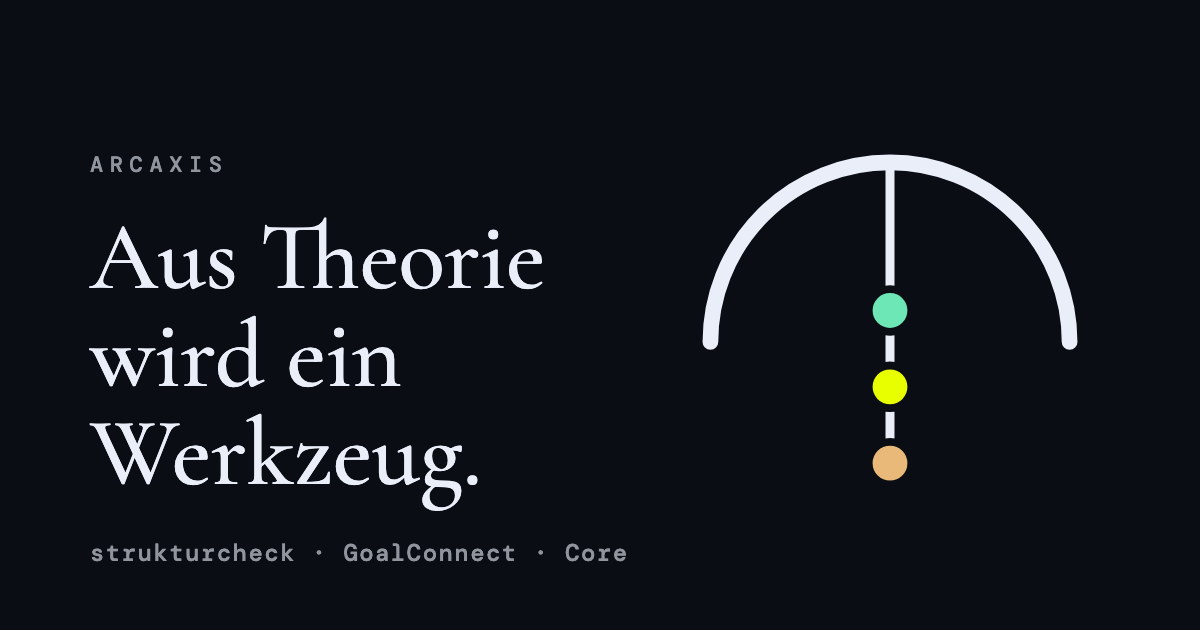
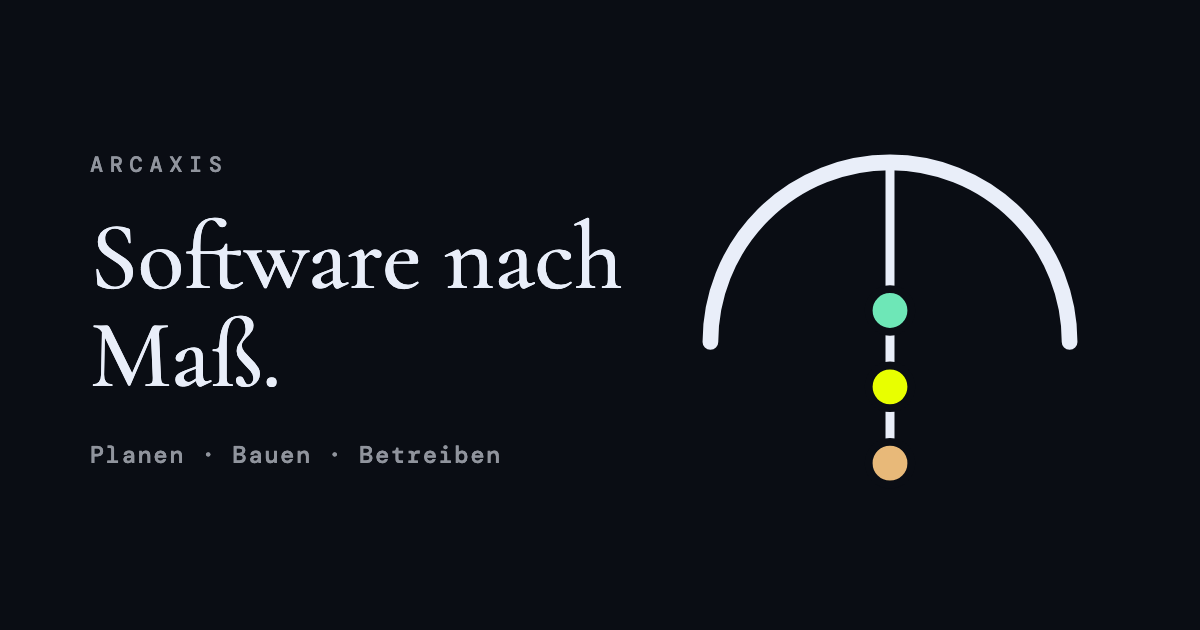
ArcAxis-Seite neu: Softwarelösungen, Projekte als Beispiele

diff --git a/index.html b/index.html
@@ -3,11 +3,11 @@
 <head>
 <meta charset="utf-8">
 <meta name="viewport" content="width=device-width, initial-scale=1">
-<title>ArcAxis – Analysewerkzeuge aus Theorie</title>
-<meta name="description" content="ArcAxis entwickelt theoriebasierte Analysewerkzeuge: strukturcheck, GoalConnect und Core. Sie wollen auch eins? Sprechen Sie uns an.">
+<title>ArcAxis – Softwarelösungen nach Maß</title>
+<meta name="description" content="ArcAxis plant, baut und betreibt Softwarelösungen – von der ersten Idee bis zum ersten zahlenden Nutzer. Beispiele: strukturcheck, GoalConnect, Core.">
 <link rel="canonical" href="https://arcaxis.de/">
-<meta property="og:title" content="ArcAxis – Analysewerkzeuge aus Theorie">
-<meta property="og:description" content="Aus Theorie wird ein Werkzeug: strukturcheck, GoalConnect, Core – und vielleicht bald Ihres.">
+<meta property="og:title" content="ArcAxis – Softwarelösungen nach Maß">
+<meta property="og:description" content="Wir planen, bauen und betreiben Software – von der ersten Idee bis zum ersten zahlenden Nutzer.">
 <meta property="og:type" content="website">
 <meta property="og:url" content="https://arcaxis.de/">
 <meta property="og:image" content="https://arcaxis.de/og-image.png">
@@ -22,9 +22,9 @@
 <header class="hdr"><div class="wrap hdr__in">
   <a class="brand" href="/" aria-label="ArcAxis"><svg xmlns="http://www.w3.org/2000/svg" viewBox="60 70 392 392" role="img" aria-label="ArcAxis">   <path d="M96 290 A160 160 0 0 1 416 290" fill="none" stroke="#e9eef9" stroke-width="14" stroke-linecap="round"/>   <line x1="256" y1="130" x2="256" y2="398" stroke="#e9eef9" stroke-width="8" stroke-linecap="round"/>   <circle cx="256" cy="262" r="19" fill="#6ee7b7" stroke="#0a0d14" stroke-width="7"/>   <circle cx="256" cy="330" r="19" fill="#e8ff00" stroke="#0a0d14" stroke-width="7"/>   <circle cx="256" cy="398" r="19" fill="#e8b979" stroke="#0a0d14" stroke-width="7"/> </svg> <span>ArcAxis</span></a>
   <nav class="nav" aria-label="Navigation">
-    <a href="#methode" data-i18n="nav.m">Methode</a>
-    <a href="#werkzeuge" data-i18n="nav.w">Werkzeuge</a>
-    <a href="#anfrage" data-i18n="nav.a">Eigenes Werkzeug</a>
+    <a href="#leistungen" data-i18n="nav.l">Leistungen</a>
+    <a href="#beispiele" data-i18n="nav.b">Beispiele</a>
+    <a href="#anfrage" data-i18n="nav.a">Projekt anfragen</a>
   </nav>
   <div class="lang" role="group" aria-label="Sprache / Language"><button type="button" data-lang="de" aria-pressed="true">DE</button><button type="button" data-lang="en" aria-pressed="false">EN</button></div>
 </div></header>
@@ -32,78 +32,81 @@
 <main id="main">
   <section class="hero"><div class="wrap hero__grid">
     <div>
-      <p class="eyebrow" data-i18n="hero.e">ArcAxis · Software aus Theorie</p>
-      <h1 data-i18n="hero.h">Aus Theorie wird ein Werkzeug.</h1>
-      <p class="lead" data-i18n="hero.l">ArcAxis entwickelt Analysewerkzeuge, die auf einem klaren Gedankengebäude beruhen: strukturierte Fragen hinein, eine nachvollziehbare Diagnose heraus.</p>
-      <div class="cta"><a class="btn btn--primary" href="#werkzeuge" data-i18n="hero.c1">Die Werkzeuge</a><a class="btn" href="#anfrage" data-i18n="hero.c2">Eigenes Werkzeug anfragen</a></div>
+      <p class="eyebrow" data-i18n="hero.e">ArcAxis · Softwarelösungen</p>
+      <h1 data-i18n="hero.h">Software nach Maß.</h1>
+      <p class="lead" data-i18n="hero.l">ArcAxis plant, baut und betreibt Softwarelösungen – von der ersten Idee bis zum ersten zahlenden Nutzer.</p>
+      <div class="cta"><a class="btn btn--primary" href="#beispiele" data-i18n="hero.c1">Beispiele ansehen</a><a class="btn" href="#anfrage" data-i18n="hero.c2">Projekt anfragen</a></div>
     </div>
-    <div class="mark-lg" aria-hidden="true"><svg xmlns="http://www.w3.org/2000/svg" viewBox="60 70 392 392" role="img" aria-label="ArcAxis">   <path d="M96 290 A160 160 0 0 1 416 290" fill="none" stroke="#e9eef9" stroke-width="14" stroke-linecap="round"/>   <line x1="256" y1="130" x2="256" y2="398" stroke="#e9eef9" stroke-width="8" stroke-linecap="round"/>   <circle cx="256" cy="262" r="19" fill="#6ee7b7" stroke="#0a0d14" stroke-width="7"/>   <circle cx="256" cy="330" r="19" fill="#e8ff00" stroke="#0a0d14" stroke-width="7"/>   <circle cx="256" cy="398" r="19" fill="#e8b979" stroke="#0a0d14" stroke-width="7"/> </svg> </div>
+    <div class="mark-lg" aria-hidden="true"><svg xmlns="http://www.w3.org/2000/svg" viewBox="60 70 392 392" role="img" aria-label="ArcAxis">   <path d="M96 290 A160 160 0 0 1 416 290" fill="none" stroke="#e9eef9" stroke-width="14" stroke-linecap="round"/>   <line x1="256" y1="130" x2="256" y2="398" stroke="#e9eef9" stroke-width="8" stroke-linecap="round"/>   <circle cx="256" cy="262" r="19" fill="#6ee7b7" stroke="#0a0d14" stroke-width="7"/>   <circle cx="256" cy="330" r="19" fill="#e8ff00" stroke="#0a0d14" stroke-width="7"/>   <circle cx="256" cy="398" r="19" fill="#e8b979" stroke="#0a0d14" stroke-width="7"/> </svg></div>
   </div></section>
 
-  <section class="section" id="methode"><div class="wrap">
+  <section class="section" id="leistungen"><div class="wrap">
     <div class="section__head narrow">
-      <p class="eyebrow" data-i18n="m.e">Was alle verbindet</p>
-      <h2 data-i18n="m.h">Eine Theorie. Viele Anwendungen.</h2>
-      <p class="lead" data-i18n="m.l">strukturcheck, GoalConnect und Core sehen verschieden aus und haben dasselbe Fundament: die Moral des Gleichgewichts. Sie beschreibt, wie ein System kippt, wenn eine von acht Kräften auf Kosten einer anderen überwiegt.</p>
+      <p class="eyebrow" data-i18n="l.e">Was wir machen</p>
+      <h2 data-i18n="l.h">Alles, was zu einer fertigen Lösung gehört.</h2>
     </div>
     <div class="principles">
-      <div class="pr"><span class="pr__n">01</span><h3 data-i18n="p1.h">Erst das Modell.</h3><p data-i18n="p1.p">Jedes Werkzeug folgt demselben, öffentlich dokumentierten Modell. Begriffe, Skalen und Fragen stehen fest, bevor die erste Zeile Code entsteht.</p></div>
-      <div class="pr"><span class="pr__n">02</span><h3 data-i18n="p2.h">Dann die Frage.</h3><p data-i18n="p2.p">Wenige, gezielte Fragen statt langer Formulare. Aus den Antworten entsteht eine Einschätzung: Was überwiegt, was wird verdrängt, was folgt daraus.</p></div>
-      <div class="pr"><span class="pr__n">03</span><h3 data-i18n="p3.h">Sorgfältig gebaut.</h3><p data-i18n="p3.p">Klare Texte, mehrsprachig, ohne Cookies und Tracking. Ergebnisse, die sich weitergeben lassen: als Report, als PDF, mit konkreten nächsten Schritten.</p></div>
+      <div class="pr"><span class="pr__n">01</span><h3 data-i18n="l1.h">Web-Anwendungen</h3><p data-i18n="l1.p">Schnell, mehrsprachig und auf jedem Gerät nutzbar.</p></div>
+      <div class="pr"><span class="pr__n">02</span><h3 data-i18n="l2.h">KI-Funktionen</h3><p data-i18n="l2.p">Auswertung, Analyse und Texte – mit klaren Leitplanken und nachvollziehbaren Ergebnissen.</p></div>
+      <div class="pr"><span class="pr__n">03</span><h3 data-i18n="l3.h">Reports und PDF</h3><p data-i18n="l3.p">Ergebnisse, die sich weitergeben lassen, im Erscheinungsbild Ihrer Marke.</p></div>
+      <div class="pr"><span class="pr__n">04</span><h3 data-i18n="l4.h">Zugang und Bezahlung</h3><p data-i18n="l4.p">Tokens, Abos oder Einmalkäufe – samt Rechnung und Bestellabwicklung.</p></div>
+      <div class="pr"><span class="pr__n">05</span><h3 data-i18n="l5.h">Automatisierung</h3><p data-i18n="l5.p">Aus manuellen Abläufen werden Prozesse, die von allein laufen.</p></div>
+      <div class="pr"><span class="pr__n">06</span><h3 data-i18n="l6.h">Betrieb und Pflege</h3><p data-i18n="l6.p">Hosting, Überwachung und Weiterentwicklung, damit es läuft, wenn Nutzer kommen.</p></div>
     </div>
   </div></section>
 
-  <section class="section" id="werkzeuge"><div class="wrap">
+  <section class="section" id="beispiele"><div class="wrap">
     <div class="section__head narrow">
-      <p class="eyebrow" data-i18n="w.e">Drei Werkzeuge, ein Fundament</p>
-      <h2 data-i18n="w.h">Was bisher entstanden ist.</h2>
+      <p class="eyebrow" data-i18n="b.e">Beispiele</p>
+      <h2 data-i18n="b.h">Drei Produkte, komplett von uns gebaut.</h2>
+      <p class="lead" data-i18n="b.l">Jedes davon haben wir von der Idee bis zum Betrieb umgesetzt: Oberfläche, Auswertung, Bezahlung, Betrieb.</p>
     </div>
     <div class="cards">
-      <a class="card c-mint" href="https://strukturcheck.de" target="_blank" rel="noopener"><span class="card__dot"></span><span class="card__tag" data-i18n="w1.t">Web · KI-gestützt</span><h3>strukturcheck</h3><p data-i18n="w1.p">Für Menschen, Teams und Organisationen. Eine Situation beschreiben, in Sekunden sehen, welche Kraft überwiegt – und was als Nächstes dran ist.</p><span class="card__go" data-i18n="w.go">Ansehen →</span></a>
-      <a class="card c-lime" href="https://goalconnect-solutions.com" target="_blank" rel="noopener"><span class="card__dot"></span><span class="card__tag" data-i18n="w2.t">Web · Vereinsdiagnose</span><h3>GoalConnect</h3><p data-i18n="w2.p">Für Profifußballvereine. Fünf Fragen zur Entscheidungsstruktur – mit Befund, Handlungsebenen und einem PDF für den Vorstand.</p><span class="card__go" data-i18n="w.go">Ansehen →</span></a>
-      <a class="card c-amber" href="https://trycore.app" target="_blank" rel="noopener"><span class="card__dot"></span><span class="card__tag" data-i18n="w3.t">Journal · KI-gestützt</span><h3>Core</h3><p data-i18n="w3.p">Für den Alltag. Ein ruhiges Emotions-Journal, das mit KI-gestützter Reflexion hilft, das eigene Gleichgewicht zu erkennen.</p><span class="card__go" data-i18n="w.go">Ansehen →</span></a>
+      <a class="card c-mint" href="https://strukturcheck.de" target="_blank" rel="noopener"><span class="card__dot"></span><span class="card__tag" data-i18n="b1.t">Web · KI · Bezahlung</span><h3>strukturcheck</h3><p data-i18n="b1.p">Strukturierte KI-Einschätzung für Situationen, Teams und Organisationen – mit Report, Team-Runden und Token-Zugang in drei Sprachen.</p><span class="card__go" data-i18n="b.go">Ansehen →</span></a>
+      <a class="card c-lime" href="https://goalconnect-solutions.com" target="_blank" rel="noopener"><span class="card__dot"></span><span class="card__tag" data-i18n="b2.t">Web · Reports · Bestellung</span><h3>GoalConnect</h3><p data-i18n="b2.p">Diagnose-Werkzeug für Profifußballvereine – mit PDF für den Vorstand, automatisch erstelltem Kurzbericht und Auftragsverwaltung.</p><span class="card__go" data-i18n="b.go">Ansehen →</span></a>
+      <a class="card c-amber" href="https://trycore.app" target="_blank" rel="noopener"><span class="card__dot"></span><span class="card__tag" data-i18n="b3.t">App · KI · Sicherheit</span><h3>Core</h3><p data-i18n="b3.p">Journal-App mit KI-gestützter Reflexion – gebaut mit Fokus auf Datenschutz und Sicherheit.</p><span class="card__go" data-i18n="b.go">Ansehen →</span></a>
     </div>
   </div></section>
 
   <section class="section" id="anfrage"><div class="wrap">
     <div class="section__head narrow">
-      <p class="eyebrow" data-i18n="a.e">Für Ihr Fachgebiet</p>
+      <p class="eyebrow" data-i18n="a.e">Ihr Projekt</p>
       <h2 data-i18n="a.h">Sie wollen auch eins?</h2>
-      <p class="lead" data-i18n="a.l">Sie haben ein Modell, ein Verfahren oder eine Methode – bisher in Köpfen, Folien oder Tabellen? ArcAxis macht daraus ein Werkzeug, das andere selbst bedienen können.</p>
+      <p class="lead" data-i18n="a.l">Sie haben eine Idee, einen Ablauf, der besser laufen könnte, oder ein Produkt, das es noch nicht gibt? Sprechen Sie uns an.</p>
     </div>
     <div class="offer">
       <div>
-        <p class="mono" data-i18n="a.d">Was wir liefern</p>
+        <p class="mono" data-i18n="a.d">Typische Projekte</p>
         <ul class="list">
-          <li><span class="no">01</span><span><b data-i18n="d1.b">Das Modell schärfen.</b> <span data-i18n="d1.t">Begriffe, Skalen und Fragen, die tragen.</span></span></li>
-          <li><span class="no">02</span><span><b data-i18n="d2.b">Die Auswertung bauen.</b> <span data-i18n="d2.t">Regeln, KI oder beides – mit klaren Leitplanken und nachvollziehbaren Ergebnissen.</span></span></li>
-          <li><span class="no">03</span><span><b data-i18n="d3.b">Die Oberfläche.</b> <span data-i18n="d3.t">Web-Anwendung, mehrsprachig, schnell und zugänglich.</span></span></li>
-          <li><span class="no">04</span><span><b data-i18n="d4.b">Das Ergebnis.</b> <span data-i18n="d4.t">Report und PDF im Erscheinungsbild Ihrer Marke.</span></span></li>
-          <li><span class="no">05</span><span><b data-i18n="d5.b">Den Betrieb.</b> <span data-i18n="d5.t">Hosting, Bezahlung und Support – bis zum ersten zahlenden Nutzer und darüber hinaus.</span></span></li>
+          <li><span class="no">01</span><span><b data-i18n="t1.b">Fachwerkzeuge und Diagnose-Tools</b> <span data-i18n="t1.t">Fragen rein, Ergebnis und Report raus.</span></span></li>
+          <li><span class="no">02</span><span><b data-i18n="t2.b">Kunden- und Mitgliederbereiche</b> <span data-i18n="t2.t">Mit Zugang, Bezahlung und Verlauf.</span></span></li>
+          <li><span class="no">03</span><span><b data-i18n="t3.b">Auswertungen mit KI</b> <span data-i18n="t3.t">Texte, Analysen und Berichte, die nachvollziehbar bleiben.</span></span></li>
+          <li><span class="no">04</span><span><b data-i18n="t4.b">Automatisierung</b> <span data-i18n="t4.t">Anfragen, Bestellungen und Berichte ohne Handarbeit.</span></span></li>
+          <li><span class="no">05</span><span><b data-i18n="t5.b">Prototypen</b> <span data-i18n="t5.t">Eine neue Produktidee schnell als laufende Version sehen.</span></span></li>
         </ul>
       </div>
       <div>
         <p class="mono" data-i18n="s.d">So läuft es</p>
         <ol class="steps">
-          <li><div><b data-i18n="s1.b">Gespräch</b><span data-i18n="s1.t">Wir verstehen Ihr Modell und Ihr Ziel.</span></div></li>
-          <li><div><b data-i18n="s2.b">Konzept</b><span data-i18n="s2.t">Fragen, Auswertung und Ergebnis auf einer Seite.</span></div></li>
-          <li><div><b data-i18n="s3.b">Prototyp</b><span data-i18n="s3.t">Ein lauffähiges Werkzeug, das Sie selbst ausprobieren.</span></div></li>
+          <li><div><b data-i18n="s1.b">Gespräch</b><span data-i18n="s1.t">Wir verstehen Ihre Idee und Ihr Ziel.</span></div></li>
+          <li><div><b data-i18n="s2.b">Konzept</b><span data-i18n="s2.t">Umfang, Ablauf und Ergebnis auf einer Seite.</span></div></li>
+          <li><div><b data-i18n="s3.b">Prototyp</b><span data-i18n="s3.t">Eine laufende Version, die Sie selbst ausprobieren.</span></div></li>
           <li><div><b data-i18n="s4.b">Betrieb</b><span data-i18n="s4.t">Veröffentlichung, Pflege und Weiterentwicklung.</span></div></li>
         </ol>
         <div class="ask">
           <h3 data-i18n="ask.h">Sprechen Sie uns an.</h3>
           <p data-i18n="ask.p">Schildern Sie in wenigen Sätzen, worum es geht. Ein Angebot erhalten Sie nach einem ersten Gespräch.</p>
-          <p><a class="btn btn--primary" href="mailto:info@arcaxis.de?subject=Anfrage%20Analysewerkzeug">info@arcaxis.de</a></p>
+          <p><a class="btn btn--primary" href="mailto:info@arcaxis.de?subject=Projektanfrage">info@arcaxis.de</a></p>
         </div>
       </div>
     </div>
-    <p class="fit" data-i18n="fit">Passt zu Forschenden und Autor:innen mit eigenem Modell, zu Beratungen, Verbänden und Vereinen, zu Coaches und Fachleuten mit einem Verfahren, das bisher von Hand läuft.</p>
+    <p class="fit" data-i18n="fit">Für Unternehmen, Vereine und Verbände, Selbstständige sowie Gründerinnen und Gründer.</p>
   </div></section>
 
   <section class="section"><div class="wrap">
     <div class="about">
       <p class="eyebrow" data-i18n="ab.e">Wer dahintersteht</p>
-      <p data-i18n="ab.p">Hinter ArcAxis steht Selim M. Ayrilmaz, Autor der Moral des Gleichgewichts und Entwickler der Werkzeuge. ArcAxis ist ein kleines Studio in München: wenige Projekte, dafür mit Sorgfalt.</p>
+      <p data-i18n="ab.p">ArcAxis ist ein Entwicklungsstudio in München. Sie sprechen direkt mit der Person, die Ihre Lösung baut: Selim M. Ayrilmaz.</p>
     </div>
   </div></section>
 </main>

diff --git a/assets/arcaxis.js b/assets/arcaxis.js
@@ -2,34 +2,37 @@
 (() => {
   "use strict";
   const EN = {
-    "skip": "Skip to content", "nav.m": "Method", "nav.w": "Tools", "nav.a": "Your own tool",
-    "hero.e": "ArcAxis · Software from theory", "hero.h": "From theory to a working tool.",
-    "hero.l": "ArcAxis builds analysis tools grounded in a clear body of thought: structured questions in, a traceable diagnosis out.",
-    "hero.c1": "The tools", "hero.c2": "Request your own tool",
-    "m.e": "What connects them", "m.h": "One theory. Many applications.",
-    "m.l": "strukturcheck, GoalConnect and Core look different and share one foundation: the Moral des Gleichgewichts (Morality of Balance). It describes how a system tips when one of eight forces prevails at the expense of another.",
-    "p1.h": "Model first.", "p1.p": "Every tool follows the same, publicly documented model. Terms, scales and questions are fixed before the first line of code is written.",
-    "p2.h": "Then the question.", "p2.p": "A few targeted questions instead of long forms. The answers become an assessment: what prevails, what is displaced, what follows.",
-    "p3.h": "Carefully built.", "p3.p": "Clear texts, multilingual, no cookies and no tracking. Results you can pass on: as a report, as a PDF, with concrete next steps.",
-    "w.e": "Three tools, one foundation", "w.h": "What exists so far.", "w.go": "Take a look →",
-    "w1.t": "Web · AI-assisted", "w1.p": "For people, teams and organisations. Describe a situation, see in seconds which force prevails – and what to do next.",
-    "w2.t": "Web · club diagnosis", "w2.p": "For professional football clubs. Five questions about decision structure – with findings, levels of action and a PDF for the board.",
-    "w3.t": "Journal · AI-assisted", "w3.p": "For everyday life. A calm emotion journal that uses AI-assisted reflection to help you recognise your own balance.",
-    "a.e": "For your field", "a.h": "Want one too?",
-    "a.l": "You have a model, a procedure or a method – so far living in heads, slides or spreadsheets? ArcAxis turns it into a tool that others can use on their own.",
-    "a.d": "What we deliver", "s.d": "How it works",
-    "d1.b": "Sharpening the model.", "d1.t": "Terms, scales and questions that hold up.",
-    "d2.b": "Building the evaluation.", "d2.t": "Rules, AI or both – with clear guardrails and traceable results.",
-    "d3.b": "The interface.", "d3.t": "Web application, multilingual, fast and accessible.",
-    "d4.b": "The result.", "d4.t": "Report and PDF in your brand’s look.",
-    "d5.b": "Operations.", "d5.t": "Hosting, payment and support – up to the first paying user and beyond.",
-    "s1.b": "Conversation", "s1.t": "We understand your model and your goal.",
-    "s2.b": "Concept", "s2.t": "Questions, evaluation and result on one page.",
-    "s3.b": "Prototype", "s3.t": "A working tool you can try yourself.",
+    "skip": "Skip to content", "nav.l": "Services", "nav.b": "Examples", "nav.a": "Request a project",
+    "hero.e": "ArcAxis · Software solutions", "hero.h": "Software, made to measure.",
+    "hero.l": "ArcAxis plans, builds and runs software solutions – from the first idea to the first paying user.",
+    "hero.c1": "See examples", "hero.c2": "Request a project",
+    "l.e": "What we do", "l.h": "Everything a finished solution needs.",
+    "l1.h": "Web applications", "l1.p": "Fast, multilingual and usable on any device.",
+    "l2.h": "AI features", "l2.p": "Evaluation, analysis and text – with clear guardrails and traceable results.",
+    "l3.h": "Reports and PDF", "l3.p": "Results you can pass on, in your brand’s look.",
+    "l4.h": "Access and payment", "l4.p": "Tokens, subscriptions or one-off purchases – including invoicing and order handling.",
+    "l5.h": "Automation", "l5.p": "Manual routines become processes that run by themselves.",
+    "l6.h": "Operations and care", "l6.p": "Hosting, monitoring and further development, so it works when users arrive.",
+    "b.e": "Examples", "b.h": "Three products, built entirely by us.",
+    "b.l": "We took each from idea to operation: interface, evaluation, payment, running it.", "b.go": "Take a look →",
+    "b1.t": "Web · AI · payment", "b1.p": "A structured AI assessment for situations, teams and organisations – with report, team rounds and token access in three languages.",
+    "b2.t": "Web · reports · orders", "b2.p": "A diagnosis tool for professional football clubs – with a PDF for the board, an automatically generated short report and order management.",
+    "b3.t": "App · AI · security", "b3.p": "A journal app with AI-assisted reflection – built with a focus on privacy and security.",
+    "a.e": "Your project", "a.h": "Want one too?",
+    "a.l": "Do you have an idea, a process that could run better, or a product that does not exist yet? Get in touch.",
+    "a.d": "Typical projects", "s.d": "How it works",
+    "t1.b": "Specialist tools and diagnosis tools", "t1.t": "Questions in, result and report out.",
+    "t2.b": "Customer and member areas", "t2.t": "With access, payment and history.",
+    "t3.b": "Evaluations with AI", "t3.t": "Texts, analyses and reports that stay traceable.",
+    "t4.b": "Automation", "t4.t": "Requests, orders and reports without manual work.",
+    "t5.b": "Prototypes", "t5.t": "See a new product idea as a running version, quickly.",
+    "s1.b": "Conversation", "s1.t": "We understand your idea and your goal.",
+    "s2.b": "Concept", "s2.t": "Scope, flow and result on one page.",
+    "s3.b": "Prototype", "s3.t": "A running version you can try yourself.",
     "s4.b": "Operation", "s4.t": "Launch, maintenance and further development.",
     "ask.h": "Get in touch.", "ask.p": "Describe in a few sentences what it is about. You will receive a proposal after a first conversation.",
-    "fit": "A good fit for researchers and authors with their own model, consultancies, associations and clubs, coaches and specialists with a procedure that still runs by hand.",
-    "ab.e": "Who is behind it", "ab.p": "ArcAxis is run by Selim M. Ayrilmaz, author of the Moral des Gleichgewichts and developer of the tools. ArcAxis is a small studio in Munich: few projects, built with care.",
+    "fit": "For companies, clubs and associations, self-employed people and founders.",
+    "ab.e": "Who is behind it", "ab.p": "ArcAxis is a development studio in Munich. You talk directly to the person who builds your solution: Selim M. Ayrilmaz.",
     "f.i": "Imprint", "f.p": "Privacy",
   };
   const orig = new WeakMap();
@@ -47,7 +50,7 @@
       if (v != null) el.textContent = v;
     });
     document.querySelectorAll(".lang button").forEach((b) => b.setAttribute("aria-pressed", String(b.dataset.lang === lang)));
-    if (lang === "en") document.title = "ArcAxis – Analysis tools from theory"; else document.title = "ArcAxis – Analysewerkzeuge aus Theorie";
+    if (lang === "en") document.title = "ArcAxis – Software, made to measure"; else document.title = "ArcAxis – Softwarelösungen nach Maß";
   }
   let lang = detect();
   document.querySelectorAll(".lang button").forEach((b) => b.addEventListener("click", () => { lang = b.dataset.lang; try { store && store.setItem("ax.lang", lang); } catch { /* ignore */ } apply(lang); }));

diff --git a/impressum.html b/impressum.html
@@ -21,11 +21,11 @@
   <h2>Kontakt</h2>
   <p>Telefon: 016091489988<br>E-Mail: <a href="mailto:info@arcaxis.de">info@arcaxis.de</a></p>
   <h2>Marke</h2>
-  <p>ArcAxis ist die Marke, unter der strukturcheck, GoalConnect und Core angeboten werden. Anbieter ist die oben genannte Person.</p>
+  <p>ArcAxis ist die Marke, unter der Softwarelösungen sowie die Produkte strukturcheck, GoalConnect und Core angeboten werden. Anbieter ist die oben genannte Person.</p>
   <h2>Inhaltlich verantwortlich</h2>
   <p>Selim M. Ayrilmaz (gemäß § 18 Abs. 2 MStV), Anschrift wie oben.</p>
   <h2>Haftung für Inhalte</h2>
-  <p>Als Diensteanbieter sind wir für eigene Inhalte auf diesen Seiten nach den allgemeinen Gesetzen verantwortlich. Die Ergebnisse unserer Analysewerkzeuge sind Entscheidungshilfen und ersetzen keine rechtliche, medizinische, therapeutische oder wirtschaftliche Beratung.</p>
+  <p>Als Diensteanbieter sind wir für eigene Inhalte auf diesen Seiten nach den allgemeinen Gesetzen verantwortlich. Ergebnisse unserer Produkte mit KI-Auswertung sind Entscheidungshilfen und ersetzen keine rechtliche, medizinische, therapeutische oder wirtschaftliche Beratung.</p>
   <h2>Urheberrecht</h2>
   <p>Die durch den Seitenbetreiber erstellten Inhalte und Werke unterliegen dem deutschen Urheberrecht. Die Vervielfältigung bedarf der schriftlichen Zustimmung.</p>
 </div></main>

diff --git a/assets/arcaxis.css b/assets/arcaxis.css
@@ -117,3 +117,4 @@ em{font-style:italic;color:var(--text)}
 .legal a{color:var(--mint)}
 
 @media (prefers-reduced-motion:reduce){*{animation:none!important;transition:none!important}.mark-lg circle{opacity:1}html{scroll-behavior:auto}}
+.list li > span:last-child b{display:block;margin-bottom:.15rem}
